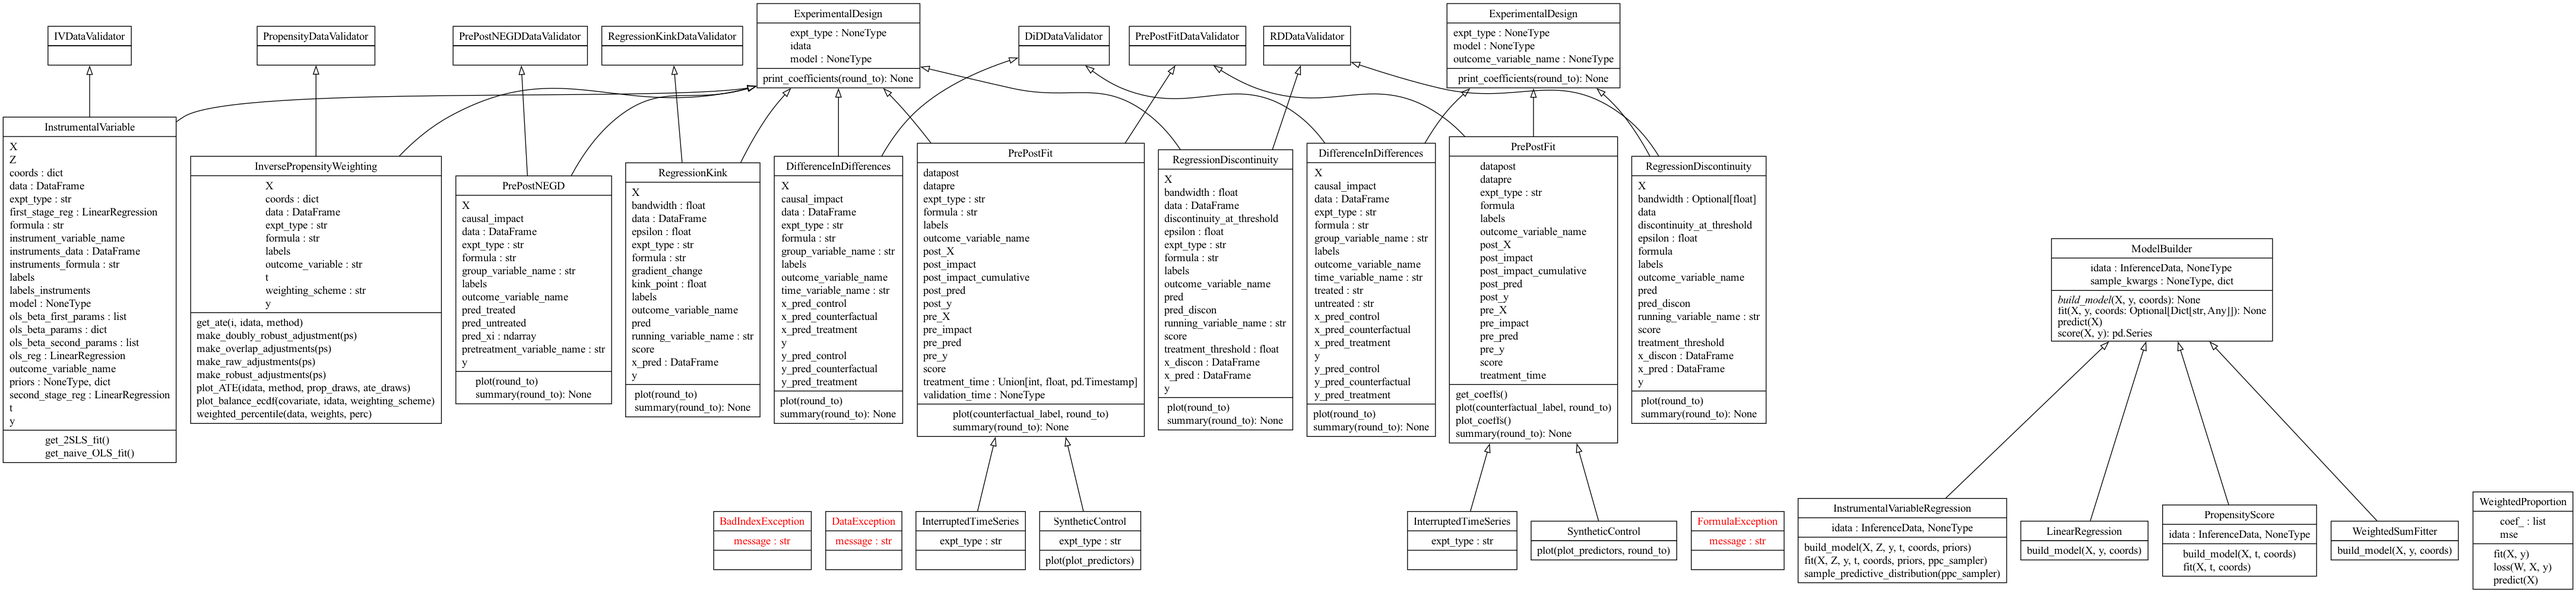
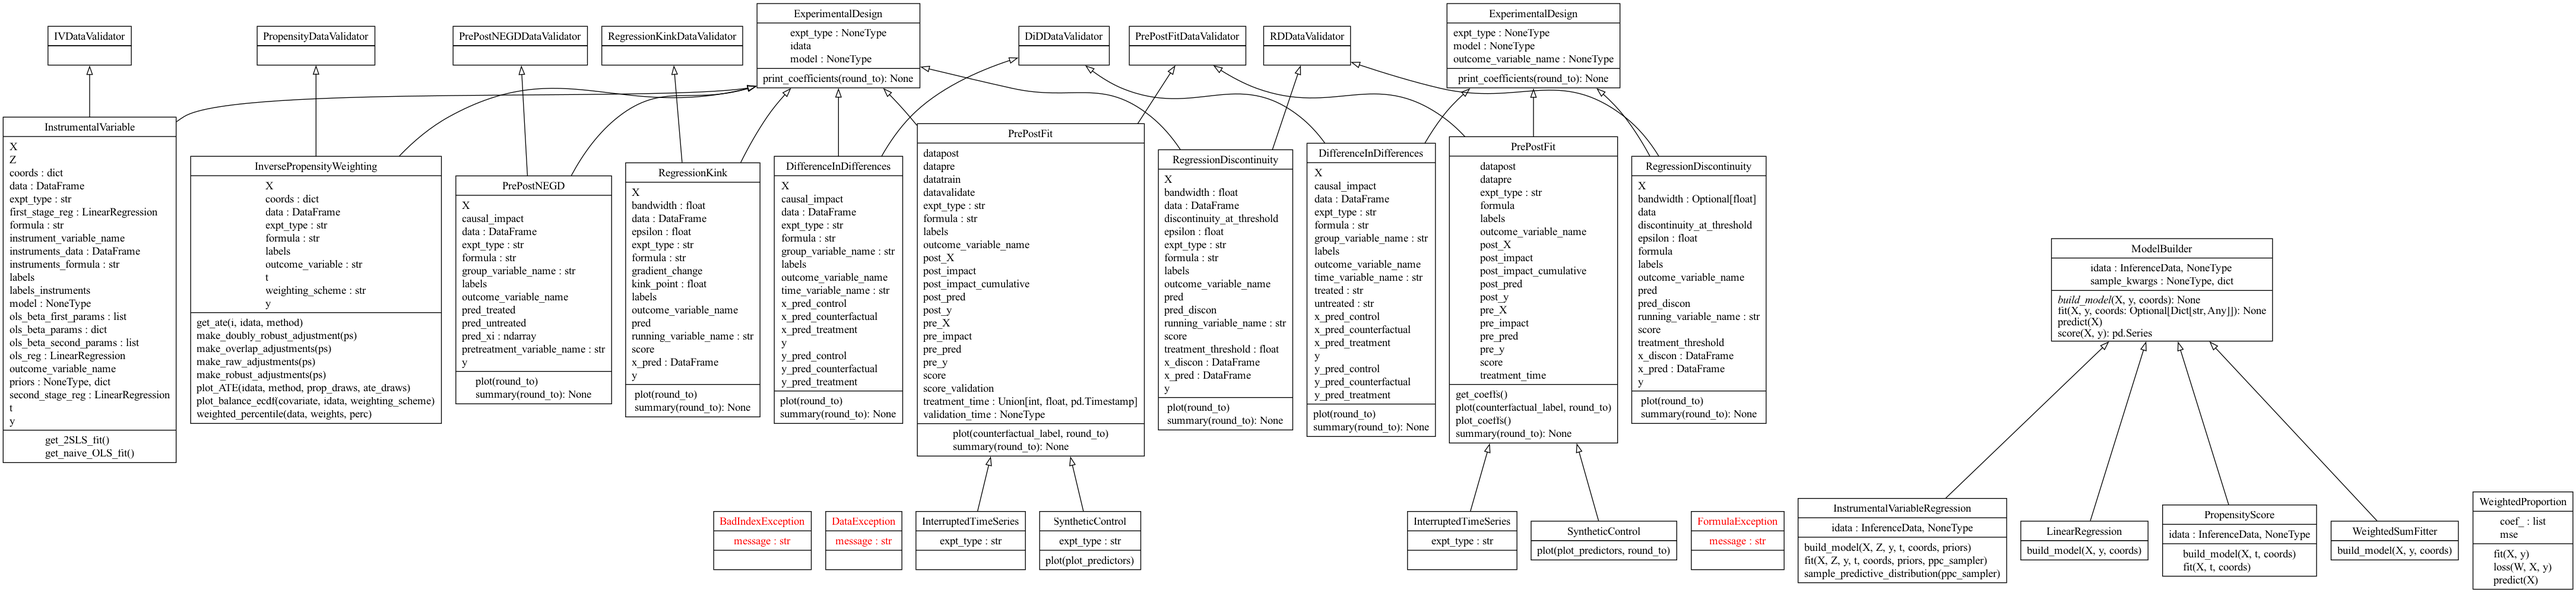
calculate R2 for validation phase when it is present

Changed region(s): [[0.3422, 0.2172, 0.4356, 0.7758]]

diff --git a/causalpy/pymc_experiments.py b/causalpy/pymc_experiments.py
@@ -220,8 +220,22 @@ class PrePostFit(ExperimentalDesign, PrePostFitDataValidator):
         COORDS = {"coeffs": self.labels, "obs_indx": np.arange(self.pre_X.shape[0])}
         self.model.fit(X=self.pre_X, y=self.pre_y, coords=COORDS)
 
-        # score the goodness of fit to the pre-intervention data
-        self.score = self.model.score(X=self.pre_X, y=self.pre_y)
+        if self.validation_time is None:
+            # We just have pre and post data, no validation data. So we can score the pre intervention data
+            self.score = self.model.score(X=self.pre_X, y=self.pre_y)
+        else:
+            # Score on the training data - before the validation time
+            self.datatrain = data[data.index < self.validation_time]
+            y, X = dmatrices(formula, self.datatrain)
+            self.score = self.model.score(X=X, y=y)
+            # Score on the validation data - after the validation time but
+            # before the treatment time
+            self.datavalidate = data[
+                (data.index >= self.validation_time)
+                & (data.index < self.treatment_time)
+            ]
+            y, X = dmatrices(formula, self.datavalidate)
+            self.score_validation = self.model.score(X=X, y=y)
 
         # get the model predictions of the observed (pre-intervention) data
         self.pre_pred = self.model.predict(X=self.pre_X)
